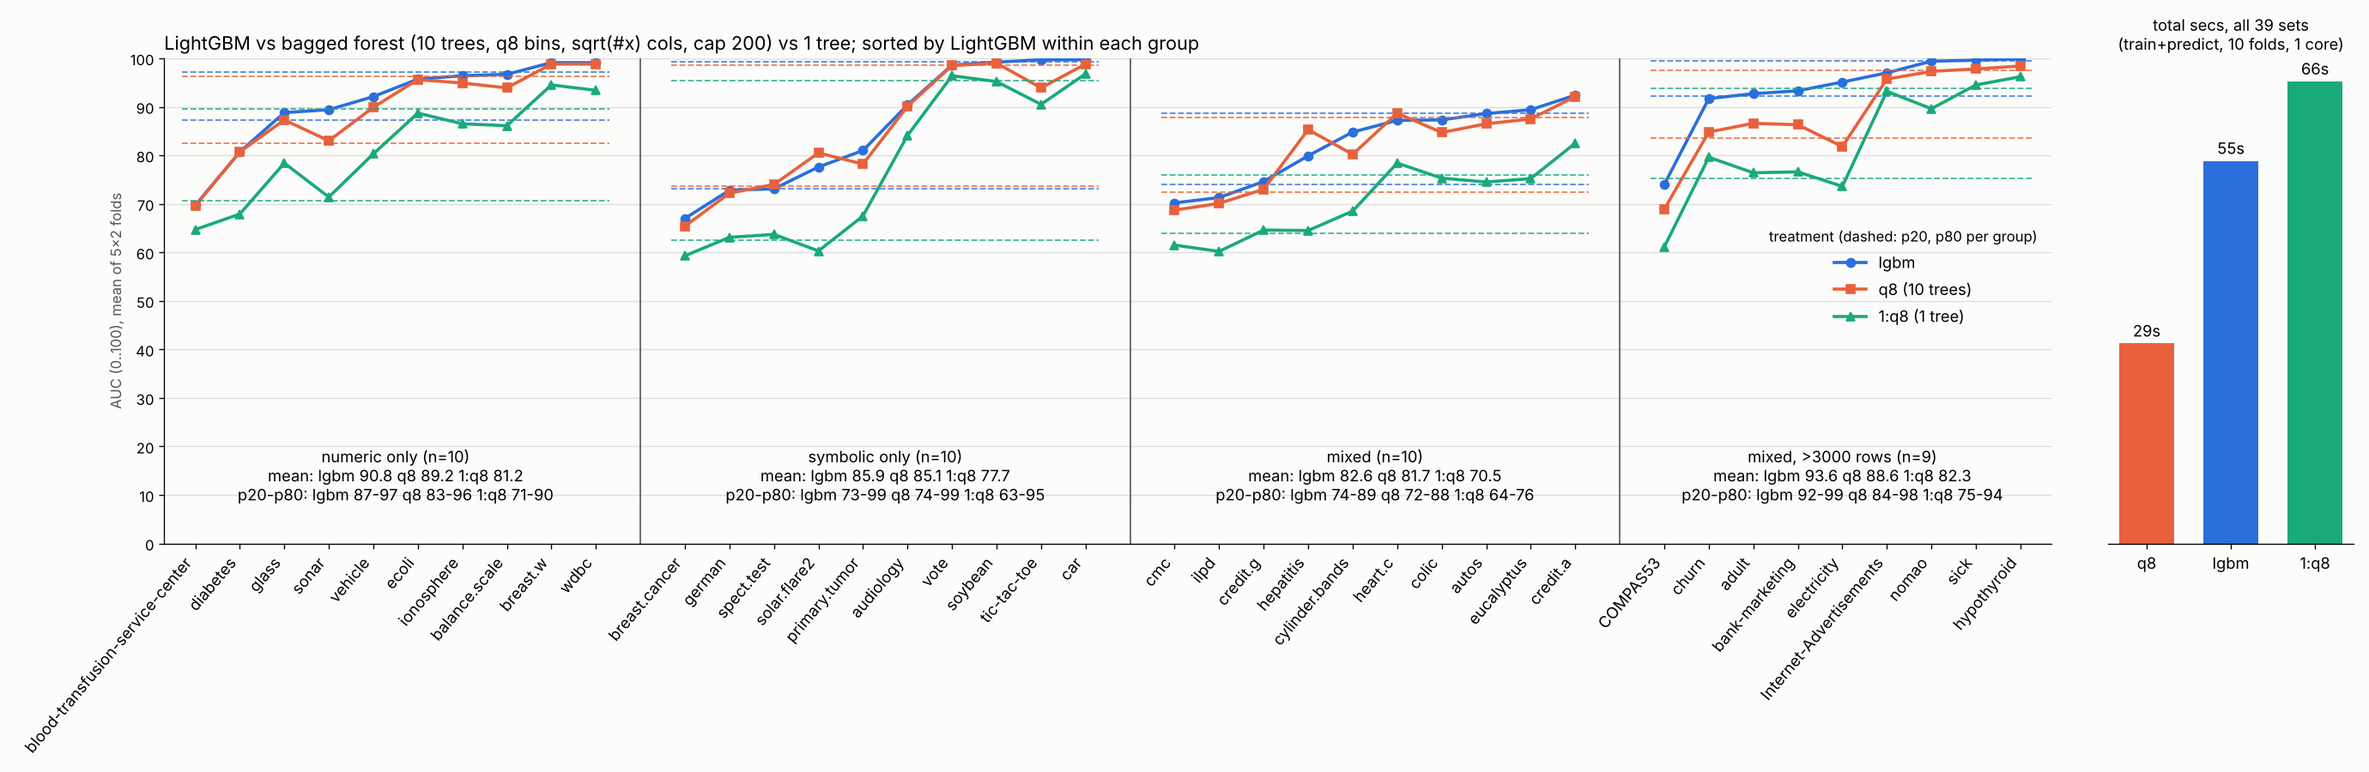
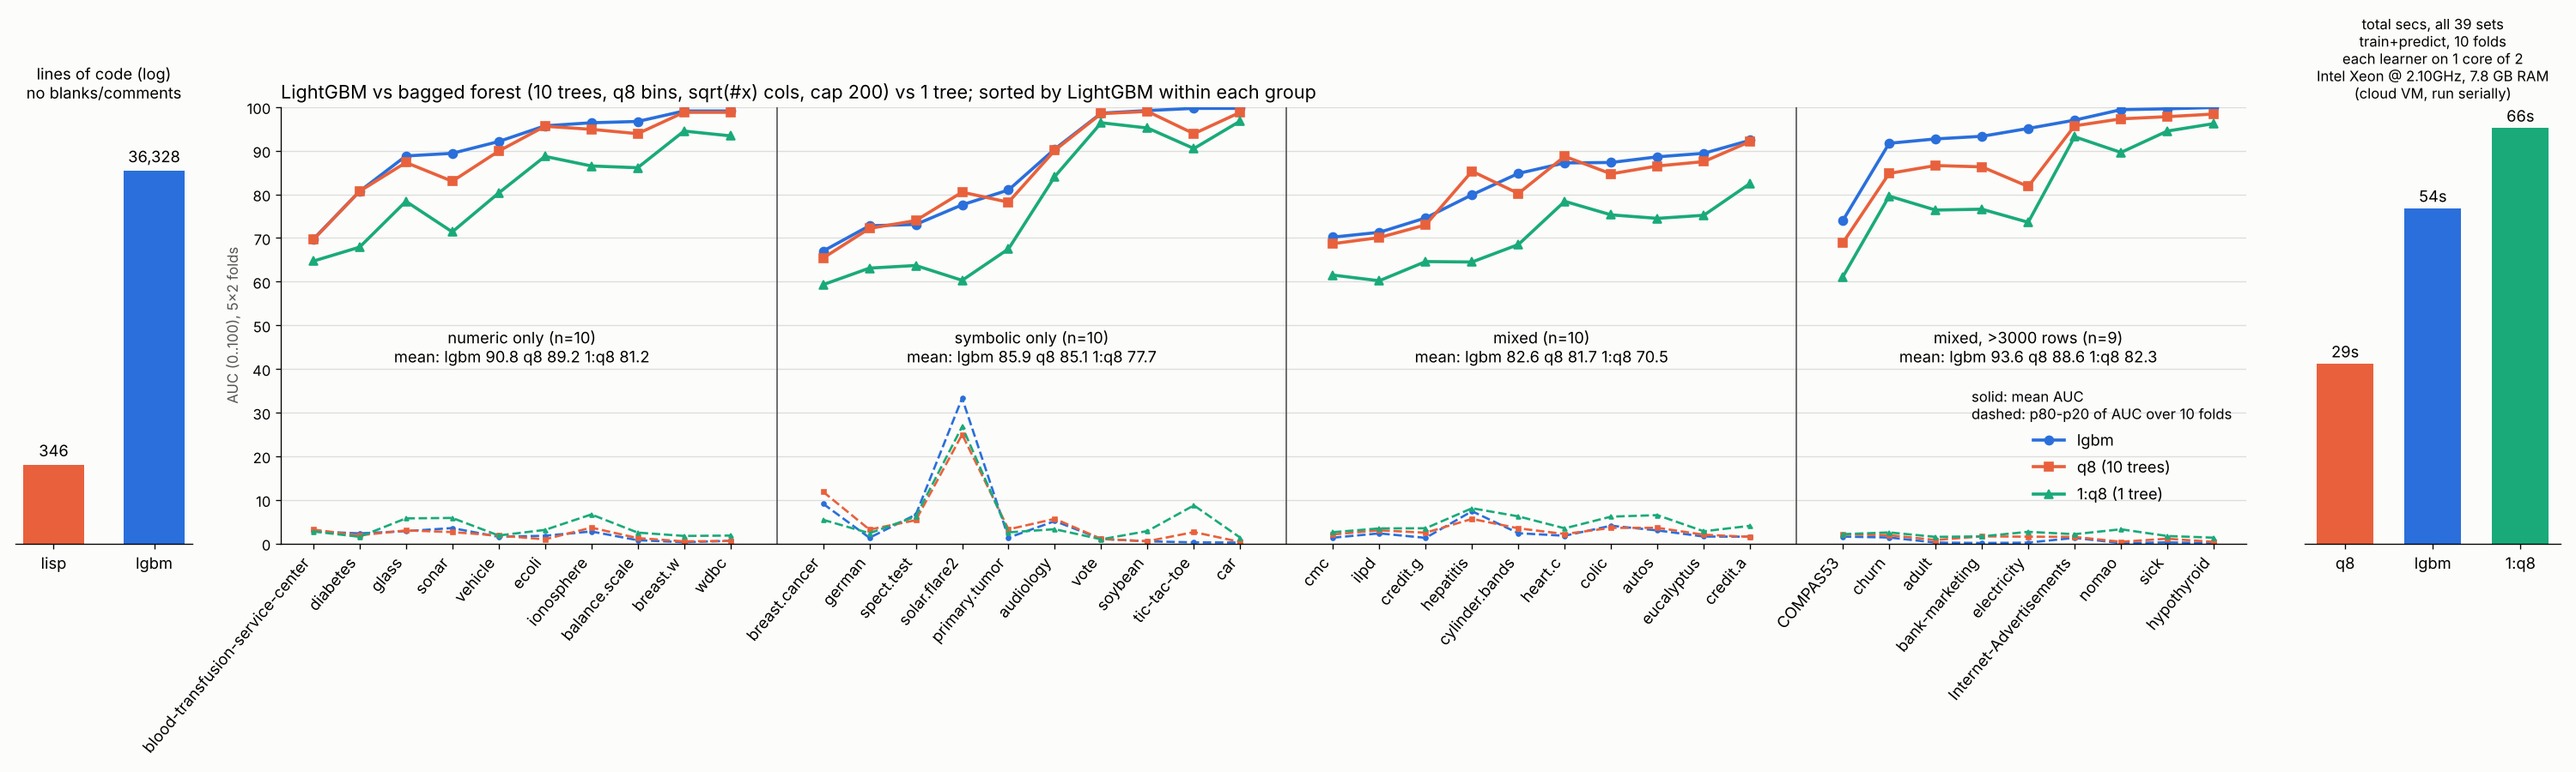
hair: ens.png adds LOC bars, per-set fold spread (p80-p20, dashed), hardware note; lgbm.py prints per-fold aucs
Claude-Session: https://claude.ai/code/session_01K96br6KpZV41b68voqix8z

diff --git a/hair/plot.py b/hair/plot.py
@@ -1,41 +1,54 @@
 #!/usr/bin/env python3 -B
-"""plot: ens.png from lgbm.py table: AUC per set (p20/p80 dashed per group) + total secs bars.
+"""plot: ens.png from lgbm.py output: mean AUC per set (solid), p80-p20 over folds (dashed), LOC + secs bars.
+LOC (2026-11-22): lisp = ai+lithp+hair.lisp (whole lib, not just forest);
+lgbm = LightGBM 7810ece src/ + include/LightGBM, C++, no cuda.
 Usage: python3 plot.py ens.txt ens.png"""
 import sys, numpy as np, matplotlib; matplotlib.use("Agg")
 import matplotlib.pyplot as plt
 L=open(sys.argv[1]).read().splitlines()
 sec=[float(v) for v in [l for l in L if l.startswith("#secs")][0].split()[3:6]]
-rows=[l.split() for l in open(sys.argv[1]) if l.strip() and not l.startswith("#")]
+rows=[l.split() for l in L if l.strip() and l[0] not in "#%"]
+F={}
+for l in L:
+  if l.startswith("%folds"): _,f,t,*v=l.split(); F[(f,t)]=[float(x) for x in v]
 d={r[0]:[float(v.rstrip("!")) for v in r[1:4]] for r in rows}
 order=list(d)
 G=[("numeric only",order[0:10]),("symbolic only",order[10:20]),
    ("mixed",order[20:30]),("mixed, >3000 rows",order[30:39])]
+TK=["1:q8","q8","lgbm"]
 T=[("lgbm",2,"#2a6fdb","o"),("q8 (10 trees)",1,"#e8613c","s"),("1:q8 (1 tree)",0,"#1aaa7a","^")]
-fig=plt.figure(figsize=(23,7.5)); gs=fig.add_gridspec(1,3,width_ratios=[20,.6,2.6],wspace=0)
-ax=fig.add_subplot(gs[0]); bx=fig.add_subplot(gs[2]); x0=0; ticks=[];labs=[]
+fig=plt.figure(figsize=(25,7.5)); gs=fig.add_gridspec(1,5,width_ratios=[1.8,.9,20,.6,2.6],wspace=0)
+lx=fig.add_subplot(gs[0]); ax=fig.add_subplot(gs[2]); bx=fig.add_subplot(gs[4]); x0=0; ticks=[];labs=[]
 for gi,(g,fs) in enumerate(G):
   fs=sorted(fs,key=lambda f:d[f][2]); xs=np.arange(x0,x0+len(fs))
   for name,j,c,m in T:
     ys=[d[f][j] for f in fs]
     ax.plot(xs,ys,color=c,marker=m,lw=2.2,ms=6,label=name if gi==0 else None)
-    lo,hi=np.percentile(ys,[20,80])
-    for v in (lo,hi): ax.hlines(v,xs[0]-.3,xs[-1]+.3,colors=c,linestyles="--",lw=1.1,alpha=.8)
+    iq=[np.subtract(*np.percentile(F[(f,TK[j])],[80,20])) for f in fs]
+    ax.plot(xs,iq,color=c,ls="--",lw=1.6,marker=m,ms=3)
   mu=" ".join(f"{n.split()[0]} {np.mean([d[f][j] for f in fs]):.1f}" for n,j,_,_ in T)
   pr=" ".join(f"{n.split()[0]} {np.percentile([d[f][j] for f in fs],20):.0f}-{np.percentile([d[f][j] for f in fs],80):.0f}" for n,j,_,_ in T)
-  ax.text(xs.mean(),14,f"{g} (n={len(fs)})\nmean: {mu}\np20-p80: {pr}",ha="center",va="center",fontsize=11)
+  ax.text(xs.mean(),45,f"{g} (n={len(fs)})\nmean: {mu}",ha="center",va="center",fontsize=11)
   ticks+=list(xs); labs+=fs; x0+=len(fs)+1
   if gi<3: ax.axvline(x0-1,color="#555",lw=1)
 ax.set_xticks(ticks); ax.set_xticklabels(labs,rotation=50,ha="right",fontsize=11)
 ax.set_ylim(0,100); ax.set_xlim(-.7,x0-1.3); ax.set_yticks(range(0,101,10))
-ax.grid(axis="y",color="#ddd"); ax.set_ylabel("AUC (0..100), mean of 5x2 folds",color="#555")
+ax.grid(axis="y",color="#ddd"); ax.set_ylabel("AUC (0..100), 5x2 folds",color="#555")
+
 for s in ("top","right"): ax.spines[s].set_visible(False)
-ax.legend(title="treatment (dashed: p20, p80 per group)",loc="center right",bbox_to_anchor=(1,.55),frameon=False,fontsize=11)
+ax.legend(title="solid: mean AUC\ndashed: p80-p20 of AUC over 10 folds",loc="lower right",bbox_to_anchor=(1,.06),frameon=False,fontsize=11)
 ax.set_title("LightGBM vs bagged forest (10 trees, q8 bins, sqrt(#x) cols, cap 200) vs 1 tree; sorted by LightGBM within each group",loc="left",fontsize=13)
 bt=sorted([(sec[j],n,c) for n,j,c,_ in T])
 bx.bar(range(3),[b[0] for b in bt],color=[b[2] for b in bt],width=.65)
 for i,b in enumerate(bt): bx.text(i,b[0]+1,f"{b[0]:.0f}s",ha="center",fontsize=11)
 bx.set_xticks(range(3)); bx.set_xticklabels([b[1].split()[0] for b in bt],fontsize=11)
-bx.set_title("total secs, all 39 sets\n(train+predict, 10 folds, 1 core)",fontsize=11)
+bx.set_title("total secs, all 39 sets\ntrain+predict, 10 folds\neach learner on 1 core of 2\nIntel Xeon @ 2.10GHz, 7.8 GB RAM\n(cloud VM, run serially)",fontsize=10)
 bx.set_yticks([]); bx.set_facecolor("#fcfcfa")
 for sp in ("top","right","left"): bx.spines[sp].set_visible(False)
+LOC=[("lisp",346,"#e8613c"),("lgbm",36328,"#2a6fdb")]  # see docstring
+lx.bar(range(2),[v for _,v,_ in LOC],color=[c for *_,c in LOC],width=.6); lx.set_yscale("log"); lx.set_ylim(100,1e5)
+for i,(n,v,c) in enumerate(LOC): lx.text(i,v*1.15,f"{v:,}",ha="center",fontsize=11)
+lx.set_xticks(range(2)); lx.set_xticklabels([n for n,*_ in LOC],fontsize=11); lx.set_yticks([])
+lx.minorticks_off(); lx.set_title("lines of code (log)\nno blanks/comments",fontsize=11); lx.set_facecolor("#fcfcfa")
+for sp in ("top","right","left"): lx.spines[sp].set_visible(False)
 fig.set_facecolor("#fcfcfa"); ax.set_facecolor("#fcfcfa"); plt.tight_layout(); plt.savefig(sys.argv[2],dpi=120)

diff --git a/hair/lgbm.py b/hair/lgbm.py
@@ -43,6 +43,7 @@ def main():
     folds.setdefault(f, []).append(([float(v) for v in a.split()],
                                     [float(v) for v in s.split()],
                                     [int(v) for v in t.split()]))
+  spread = {}
   W, wins, means, secs = 12, dict.fromkeys(T, 0), {t: [] for t in T}, \
                          dict.fromkeys(T, 0.0)
   print("%-34s" % "#data" + "".join("%-*s" % (W, t) for t in T))
@@ -58,6 +59,7 @@ def main():
       t0 = time.time()
       d["lgbm"].append(aucs(lgbm(X, y, cats, train, test)))
       secs["lgbm"] += time.time() - t0
+    spread[f] = d
     rk = rank(d, reverse=True)
     cells = []
     for t in T:
@@ -69,5 +71,7 @@ def main():
   print("%-34s" % "#mean auc" + "".join(
         "%5.1f       " % (sum(means[t]) / len(means[t])) for t in T))
   print("%-34s" % "#secs (all data)" + "".join("%5.1f       " % secs[t] for t in T))
+  for f, d in spread.items():                    # per-fold aucs, for plot.py
+    for t in T: print("%%folds %s %s %s" % (f, t, " ".join("%.1f" % v for v in d[t])))
 
 if __name__ == "__main__": main()
